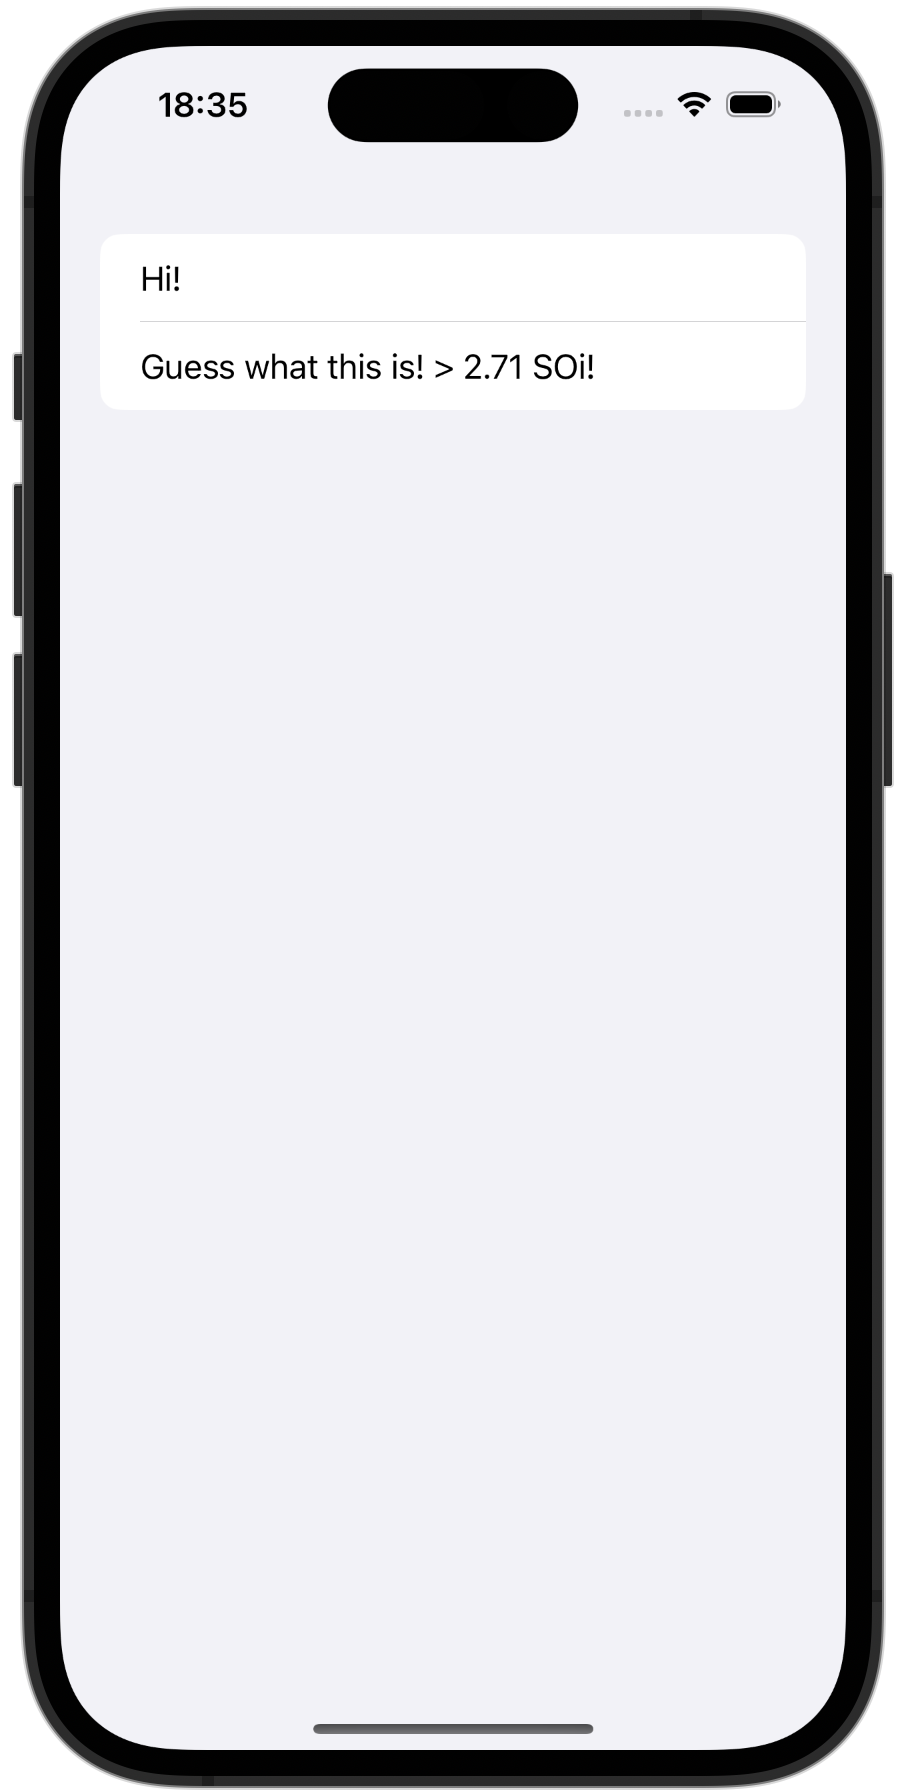
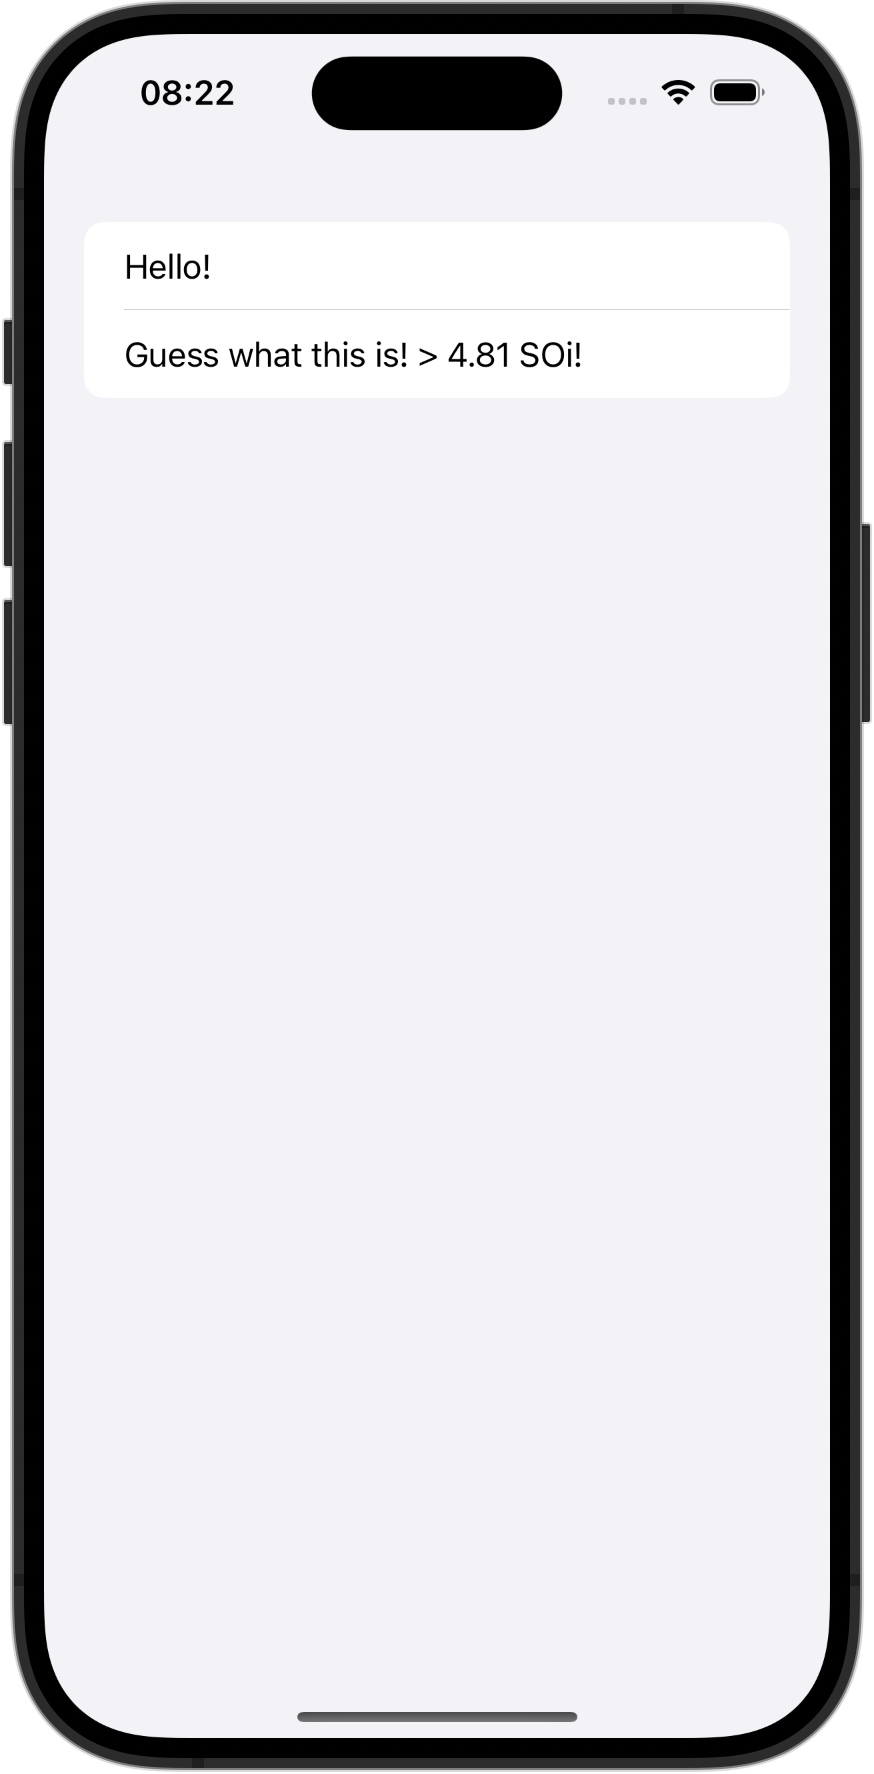
updated: native UI code and UI fixes

Changed region(s): [[0.0, 0.0, 1.0, 1.0], [0.1545, 0.124, 0.6796, 0.217]]

diff --git a/topics/multiplatform-onboard/multiplatform-create-first-app.md b/topics/multiplatform-onboard/multiplatform-create-first-app.md
@@ -27,7 +27,9 @@ You can share application logic between iOS and Android apps and write platform-
    * **Name**: GreetingKMP
    * **Group**: com.jetbrains.greeting
    * **Artifact**: greetingkmp
+   
    ![Create Compose Multiplatform project](create-first-multiplatform-app.png){width=800}
+
 5. Select **Android** and **iOS** targets.
 6. For iOS, select the **Do not share UI** option to keep the UI native.
 7. Once you've specified all the fields and targets, click **Create**.
@@ -40,9 +42,9 @@ You can share application logic between iOS and Android apps and write platform-
 
 ## Examine the project structure
 
-In IntelliJ IDEA, navigate to the "GreetingKMP" folder.
+In IntelliJ IDEA, expand the `GreetingKMP` folder.
 
-Each Kotlin Multiplatform project includes three modules:
+This Kotlin Multiplatform project includes three modules:
 
 * _shared_ is a Kotlin module that contains the logic common for both Android and iOS applications – the code you share
   between platforms. It uses [Gradle](https://kotlinlang.org/docs/gradle.html) as the build system to help automate your build process.
@@ -74,7 +76,8 @@ The common source set contains shared code that can be used across multiple targ
 It's designed to contain code that is platform-independent. If you try to use platform-specific APIs in the common source set,
 the IDE will show a warning:
 
-1. Open the `Greeting.kt` file where you can find an automatically generated `Greeting` class with a `greet()` function:
+1. Open the `shared/src/commonMain/kotlin/com/jetbrains/greeting/greetingkmp/Greeting.kt` file
+    where you can find an automatically generated `Greeting` class with a `greet()` function:
 
     ```kotlin
     class Greeting {
@@ -86,7 +89,8 @@ the IDE will show a warning:
     }
     ```
 
-2. Add a bit of variety to the greeting. Import `kotlin.random.Random` from the Kotlin standard library. This is a multiplatform library that works on all platforms and is included automatically as a dependency.
+2. Add a bit of variety to the greeting. Import `kotlin.random.Random` from the Kotlin standard library.
+    This is a multiplatform library that works on all platforms and is included automatically as a dependency.
 3. Update the shared code with the `reversed()` call from the Kotlin standard library to reverse the text:
 
     ```kotlin
@@ -103,14 +107,14 @@ the IDE will show a warning:
     }
     ```
 
-Writing the code only in common Kotlin has obvious limitations because it can't use any platform specifics.
+Writing the code only in common Kotlin has obvious limitations because it can't use any platform-specific functionality.
 Using interfaces and the [expect/actual](multiplatform-connect-to-apis.md) mechanism solves this.
 
 ### Check out platform-specific implementations
 
-The common source set can define an interface or an expected declaration. Then each platform source set,
-in this case `androidMain` and `iosMain`, has to provide actual platform-specific implementations for the expected
-declarations from the common source set.
+The common source set can define expected declarations (interfaces, classes, and so on).
+Then each platform source set, in this case `androidMain` and `iosMain`,
+has to provide actual platform-specific implementations for the expected declarations.
 
 While generating the code for a specific platform, the Kotlin compiler merges expected and actual declarations
 and generates a single declaration with actual implementations.
@@ -148,9 +152,9 @@ and generates a single declaration with actual implementations.
     }
     ```
 
-    * The `name` property implementation from `AndroidPlatform` uses the Android platform code, namely the `android.os.Build`
-      dependency. This code is written in Kotlin/JVM. If you try to access a JVM specific class, such as `java.util.Random` here, this code will compile.
-    * The `name` property implementation from `IOSPlatform` uses iOS platform code, namely the `platform.UIKit.UIDevice`
+    * The `name` property implementation from `AndroidPlatform` uses the Android-specific code, namely the `android.os.Build`
+      dependency. This code is written in Kotlin/JVM. If you try to access a JVM-specific class, such as `java.util.Random` here, this code will compile.
+    * The `name` property implementation from `IOSPlatform` uses iOS-specific code, namely the `platform.UIKit.UIDevice`
       dependency. It's written in Kotlin/Native, meaning you can write iOS code in Kotlin. This code becomes a part of the iOS
       framework, which you will later call from Swift in your iOS application.
 
@@ -158,17 +162,17 @@ and generates a single declaration with actual implementations.
    and actual implementations are provided in the platform code:
 
     ```kotlin
-    // Platform.kt in the commonMain module:
+    // Platform.kt in the commonMain source set
     expect fun getPlatform(): Platform
     ```
    
     ```kotlin
-    // Platform.android.kt in the androidMain module:
+    // Platform.android.kt in the androidMain source set
     actual fun getPlatform(): Platform = AndroidPlatform()
     ```
    
     ```kotlin
-    // Platform.ios.kt in the iosMain module:
+    // Platform.ios.kt in the iosMain source set
     actual fun getPlatform(): Platform = IOSPlatform()
     ```
 
@@ -205,7 +209,7 @@ such as properties and classes. Let's implement an expected property:
 
    You'll get an error saying that expected declarations must not have a body, in this case an initializer.
    The implementations must be provided in actual platform modules. Remove the initializer.
-3. Select the `num` property. Press **Option + Enter** and choose "Add missing actual declarations".
+3. Hover the `num` property and click **Create missed actuals...**.
    Choose the `androidMain` source set. You can then complete the implementation in `androidMain/Platform.android.kt`:
 
    ```kotlin
@@ -237,6 +241,9 @@ such as properties and classes. Let's implement an expected property:
 You can run your multiplatform application for both [Android](#run-your-application-on-android)
 or [iOS](#run-your-application-on-ios) from IntelliJ IDEA.
 
+If you have explored the expect/actual mechanism earlier, you can see "[1]" added to the greeting for Android
+and "[2]" added for iOS.
+
 ### Run your application on Android
 
 1. In the list of run configurations, select **composeApp**.
@@ -252,15 +259,16 @@ or [iOS](#run-your-application-on-ios) from IntelliJ IDEA.
 
 ### Run your application on iOS
 
-1. Launch Xcode in a separate window. The first time you do this, you may also need to accept the license terms and allow
-   Xcode to perform some necessary initial tasks.
-2. In IntelliJ IDEA, select **iosApp** in the list of run configurations and click **Run**.
+If you haven't launched Xcode as part of the initial setup, do that before running the iOS app.
 
-   If you don't have an available iOS configuration in the list, add a [new run configuration](#run-on-a-new-ios-simulated-device).
+In IntelliJ IDEA, select **iosApp** in the list of run configurations, select a simulated device next to the run configuration,
+and click **Run**.
 
-   ![Run multiplatform app on iOS](compose-run-ios.png){width=350}
+If you don't have an available iOS configuration in the list, add a [new run configuration](#run-on-a-new-ios-simulated-device).
 
-   ![First mobile multiplatform app on iOS](first-multiplatform-project-on-ios-1.png){width=300}
+![Run multiplatform app on iOS](compose-run-ios.png){width=350}
+
+![First mobile multiplatform app on iOS](first-multiplatform-project-on-ios-1.png){width=300}
 
 <include from="compose-multiplatform-create-first-app.md" element-id="run_ios_other_devices"/>
 

diff --git a/topics/multiplatform-onboard/multiplatform-upgrade-app.md b/topics/multiplatform-onboard/multiplatform-upgrade-app.md
@@ -239,21 +239,24 @@ suspending functions return.
 
 3. Change the `greet()` function to return a `Flow`:
 
-   ```kotlin
-   import kotlinx.coroutines.delay
-   import kotlinx.coroutines.flow.Flow
-   import kotlinx.coroutines.flow.flow
-   import kotlin.time.Duration.Companion.seconds
-
-   fun greet(): Flow<String> = flow {
-        emit(if (Random.nextBoolean()) "Hi!" else "Hello!")
-        delay(1.seconds)
-        emit("Guess what this is! > ${platform.name.reversed()}")
-        delay(1.seconds)
-        emit(daysPhrase())
-        emit(rocketComponent.launchPhrase())
-   }
-   ```
+    ```kotlin
+    import kotlinx.coroutines.delay
+    import kotlinx.coroutines.flow.Flow
+    import kotlinx.coroutines.flow.flow
+    import kotlin.time.Duration.Companion.seconds
+    
+    class Greeting {
+        // ...
+        fun greet(): Flow<String> = flow {
+            emit(if (Random.nextBoolean()) "Hi!" else "Hello!")
+            delay(1.seconds)
+            emit("Guess what this is! > ${platform.name.reversed()}")
+            delay(1.seconds)
+            emit(daysPhrase())
+            emit(rocketComponent.launchPhrase())
+        }
+    }
+    ```
 
    * The `Flow` is created here with the `flow()` builder function, which wraps all the statements.
    * The `Flow` emits strings with a delay of one second between each emission. The last element is only emitted after
@@ -301,7 +304,8 @@ The view model will manage the data from the activity and won't disappear when t
     }
     ```
 
-2. In `composeApp/src/androidMain/kotlin`, create a new `MainViewModel` Kotlin class:
[1 lines of base64/hex data omitted]
+    create a new `MainViewModel` Kotlin class:
 
     ```kotlin
     import androidx.lifecycle.ViewModel
@@ -374,7 +378,7 @@ The view model will manage the data from the activity and won't disappear when t
 
 #### Use the view model's flow
 
-1. In `composeApp/src/androidMain/kotlin`, locate the `App.kt` file and update it, replacing the previous implementation:
+1. In `composeApp/src/androidMain/kotlin`, open the `App.kt` file and update it, replacing the previous implementation:
 
     ```kotlin
     import androidx.lifecycle.compose.collectAsStateWithLifecycle
@@ -387,19 +391,21 @@ The view model will manage the data from the activity and won't disappear when t
             val greetings by mainViewModel.greetingList.collectAsStateWithLifecycle()
     
             Column(
-                modifier = Modifier.padding(all = 20.dp),
+                modifier = Modifier
+                    .safeContentPadding()
+                    .fillMaxSize(),
                 verticalArrangement = Arrangement.spacedBy(8.dp),
             ) {
                 greetings.forEach { greeting ->
                     Text(greeting)
-                    Divider()
+                    HorizontalDivider()
                 }
             }
         }
     }
     ```
 
-   * The `collectAsStateWithLifecycle()` function calls on `greetingList` to collect the value from the view model's flow
+   * The `collectAsStateWithLifecycle()` function calls on `greetingList` to collect the value from the ViewModel's flow
      and represent it as a composable state in a lifecycle-aware manner.
    * When a new flow is created, the compose state will change and display a scrollable `Column` with greeting phrases
      arranged vertically and separated by dividers.
@@ -415,7 +421,7 @@ pattern again to connect the UI to the shared module, which contains all the bus
 
 The module is already imported in the `ContentView.swift` file with the `import Shared` declaration.
 
-#### Introducing a view model
+#### Introducing a ViewModel
 
 1. In `iosApp/iOSApp.swift`, update the entry point for your app:
 
@@ -470,12 +476,12 @@ The module is already imported in the `ContentView.swift` file with the `import 
 
    * `ViewModel` is declared as an extension to `ContentView`, as they are closely connected.
    * `ViewModel` has a `greetings` property that is an array of `String` phrases.
-     SwiftUI connects the view model (`ContentView.ViewModel`) with the view (`ContentView`).
+     SwiftUI connects the ViewModel (`ContentView.ViewModel`) with the view (`ContentView`).
    * `ContentView.ViewModel` is declared as an `ObservableObject`.
    * The `@Published` wrapper is used for the `greetings` property.
-   * The `@ObservedObject` property wrapper is used to subscribe to the view model.
+   * The `@ObservedObject` property wrapper is used to subscribe to the ViewModel.
 
-Now the view model will emit signals whenever this property changes.
+Now the ViewModel will emit signals whenever this property changes.
 
 #### Choose a library to consume flows from iOS
 
@@ -510,30 +516,32 @@ plugins {
 
 ##### Consume the flow using SKIE
 
-1. Use a loop and the `await` mechanism to iterate through the `Greeting().greet()` flow and update the `greetings`
-   property every time the flow emits a value.
-2. Make sure `ViewModel` is marked with the `@MainActor` annotation. The annotation ensures that all asynchronous operations within
-   `ViewModel` run on the main thread to comply with the Kotlin/Native requirement:
+You'll use a loop and the `await` mechanism to iterate through the `Greeting().greet()` flow and update the `greetings`
+property every time the flow emits a value.
 
-    ```Swift
-    // ...
-    extension ContentView {
-        @MainActor
-        class ViewModel: ObservableObject {
-            @Published var greetings: [String] = []
-            
-            func startObserving() async {
-                for await phrase in Greeting().greet() {
-                    self.greetings.append(phrase)
-                }
+Make sure `ViewModel` is marked with the `@MainActor` annotation.
+The annotation ensures that all asynchronous operations within `ViewModel` run on the main thread
+to comply with the Kotlin/Native requirement:
+
+```Swift
+// ...
+extension ContentView {
+    @MainActor
+    class ViewModel: ObservableObject {
+        @Published var greetings: [String] = []
+        
+        func startObserving() async {
+            for await phrase in Greeting().greet() {
+                self.greetings.append(phrase)
             }
         }
     }
-    ```
+}
+```
 
-3. Rerun the **iosApp** configuration to make sure your app's logic is synced:
+Rerun the **iosApp** configuration to make sure your app's logic is synced:
 
-   ![Final results](multiplatform-mobile-upgrade-ios.png){width=300}
+![Final results](multiplatform-mobile-upgrade-ios.png){width=300}
 
 > You can find the final state of the project in our [GitHub repository](https://github.com/kotlin-hands-on/get-started-with-kmp/tree/main/step5skie).
 >
@@ -552,7 +560,7 @@ plugins {
     ```kotlin
     plugins {
         // ...
-        id("com.google.devtools.ksp").version("2.0.0-1.0.24").apply(false)
+        id("com.google.devtools.ksp").version("2.1.21-2.0.1").apply(false)
         id("com.rickclephas.kmp.nativecoroutines").version("%kmpncVersion%").apply(false)
     }
     ```
@@ -604,9 +612,9 @@ plugins {
 
 ##### Import the library using SPM in XCode
 
-1. Open Xcode.
+1. Go to **File** | **Open Project in Xcode**.
 2. In Xcode, right-click the `iosApp` project in the left-hand menu and select **Add Package Dependencies**.
-2. In the search bar, enter the package name:
+3. In the search bar, enter the package name:
 
      ```none
     https://github.com/rickclephas/KMP-NativeCoroutines.git

diff --git a/topics/multiplatform-onboard/multiplatform-update-ui.md b/topics/multiplatform-onboard/multiplatform-update-ui.md
@@ -23,9 +23,9 @@ The `composeApp` module contains an Android application, defines its main activi
 Make some changes and see how they are reflected in the UI:
 
 1. Navigate to the `App.kt` file in `composeApp/src/androidMain/kotlin`.
-2. Find the `Greeting` class invocation. Select the `greet()` function, right-click it and select the **Go To** | **Declaration or Usages** menu item.
+2. Find the `Greeting` class invocation. Select the `greet()` function, right-click it, and select **Go To** | **Declaration or Usages**.
    You'll see that it's the same class from the `shared` module you edited in the previous step.
-3. In `Greeting.kt`, update the `greet()` function:
+3. In the `Greeting.kt` file, update the `greet()` function:
 
    ```kotlin
    fun greet(): List<String> = buildList {
@@ -46,12 +46,15 @@ Make some changes and see how they are reflected in the UI:
            val greeting = remember { Greeting().greet() }
    
            Column(
-               modifier = Modifier.padding(all = 20.dp),
+               modifier = Modifier
+                   .padding(all = 10.dp)
+                   .safeContentPadding()
+                   .fillMaxSize(),
                verticalArrangement = Arrangement.spacedBy(8.dp),
            ) {
                greeting.forEach { greeting ->
                    Text(greeting)
-                   Divider()
+                   HorizontalDivider()
                }
            }
        }
@@ -73,7 +76,7 @@ framework. The UI of the app is written in Swift.
 Implement the same changes as in the Android app:
 
 1. In IntelliJ IDEA, find the `iosApp` folder at the root of your project in the **Project** tool window.
-2. Open the `ContentView.swift` file, select the `greet()` function right click and select the **Go To** | **Definition** menu item.
+2. Open the `ContentView.swift` file, right-click the `Greeting().greet()` call, and select **Go To** | **Definition**.
 
     You'll see the Objective-C declarations for the Kotlin functions defined in the `shared` module. Kotlin types are
     represented as Objective-C types when used from Objective-C/Swift. Here the `greet()` function

diff --git a/topics/compose-onboard/compose-multiplatform-create-first-app.md b/topics/compose-onboard/compose-multiplatform-create-first-app.md
@@ -150,7 +150,7 @@ Learn how to [configure and connect a hardware device and run your application o
 
 ### Run your application on iOS
 
-If you haven't launched Xcode as part of the initial setup, do that before trying to run the iOS app.
+If you haven't launched Xcode as part of the initial setup, do that before running the iOS app.
 
 In IntelliJ IDEA, select **iosApp** in the list of run configurations, select a simulated device next to the run configuration,
 and click **Run**.
